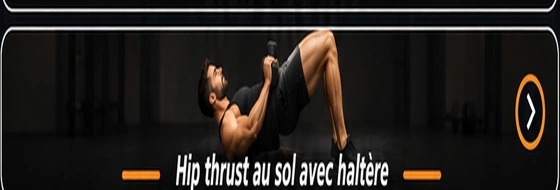
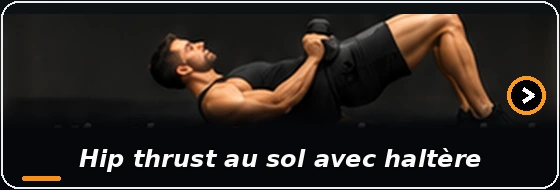
Add files via upload

diff --git a/sw.js b/sw.js
@@ -1,6 +1,6 @@
-// Ma Bibliothèque — mise à jour Pectoraux et correctif cache de navigation PWA.
-// v89 : noveaux bandeaux et mise a jour du cache; les pages et scripts se rechargent depuis le réseau dès qu'il est disponible.
-const CACHE = "ma-bibliotheque-v90";
+// Ma Bibliothèque — mise à jour Jambes sans écrasement.
+// v92 : nouveau cadrage proportionnel des bandeaux Jambes, sans étirement.
+const CACHE = "ma-bibliotheque-v92";
 const CORE = [
   "./", "./index.html", "./styles.css", "./app.js", "./data.json",
   "./manifest.json", "./icon-192.png", "./icon-512.png",
@@ -134,7 +134,7 @@ self.addEventListener("fetch", event => {
   if (url.origin !== self.location.origin) return;
   const path = url.pathname;
   const nav = request.mode === "navigate" || path.endsWith("/") || path.endsWith("/index.html");
-  const freshFile = /\/(?:index\.html|styles\.css|app\.js|data\.json|manifest\.json|sw\.js|pectoraux-v1\.js|pectoraux-v1\.css|dos-v1\.js|dos-v1\.css|epaules-v1\.js|epaules-v1\.css|biceps-v2\.js|biceps-v2\.css|triceps-v1\.js|triceps-v1\.css)$/.test(path);
+  const freshFile = /\/(?:index\.html|styles\.css|app\.js|data\.json|manifest\.json|sw\.js|pectoraux-v1\.js|pectoraux-v1\.css|dos-v1\.js|dos-v1\.css|epaules-v1\.js|epaules-v1\.css|biceps-v2\.js|biceps-v2\.css|triceps-v1\.js|triceps-v1\.css|jambes-v1\.js|jambes-v1\.css)$/.test(path);
   if (nav || freshFile) {
     event.respondWith((async () => {
       const cache = await caches.open(CACHE);
